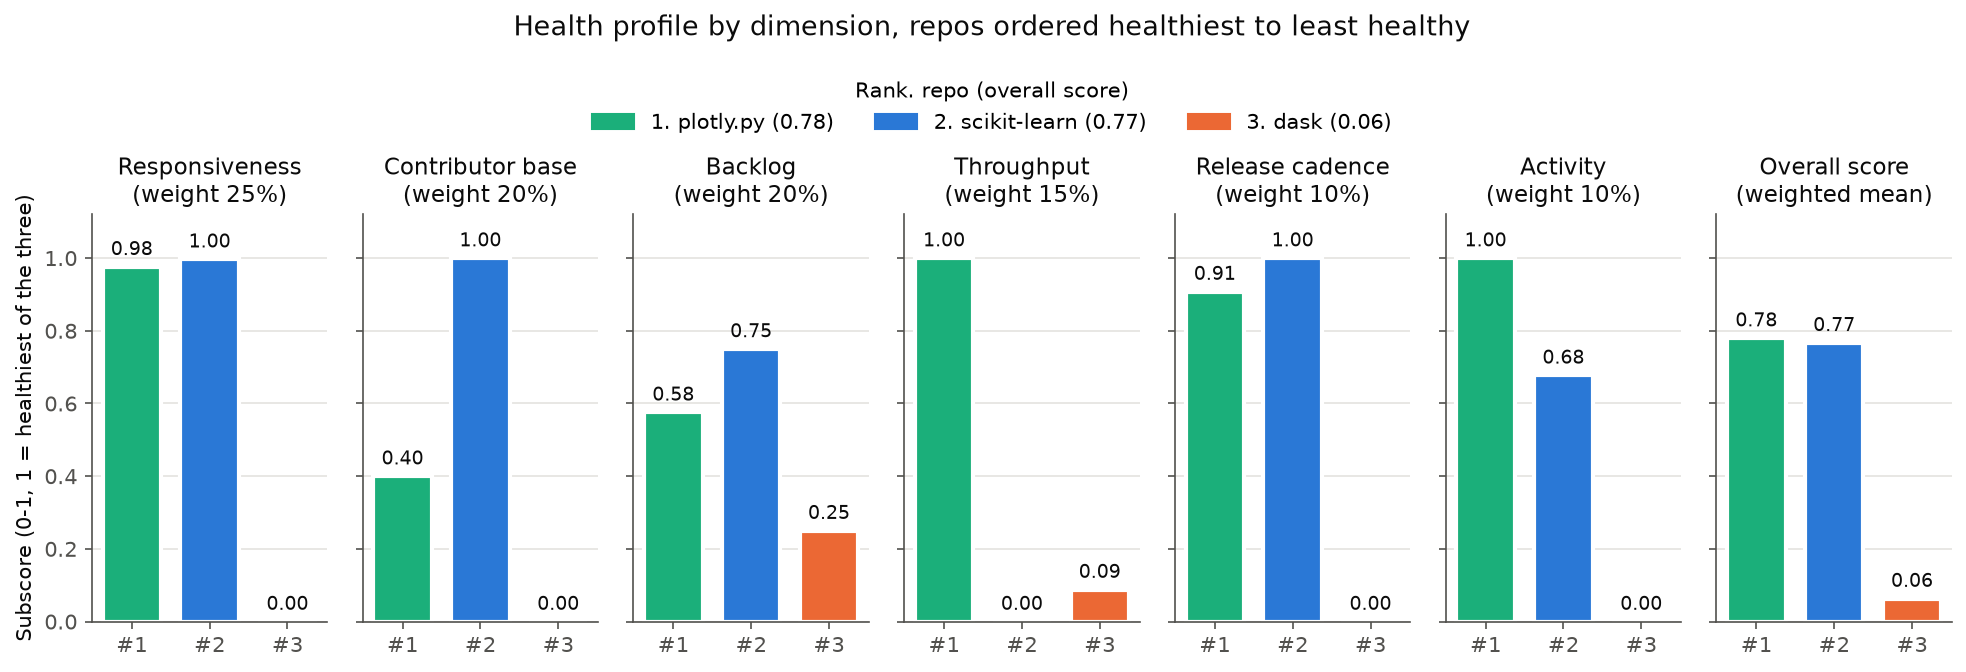
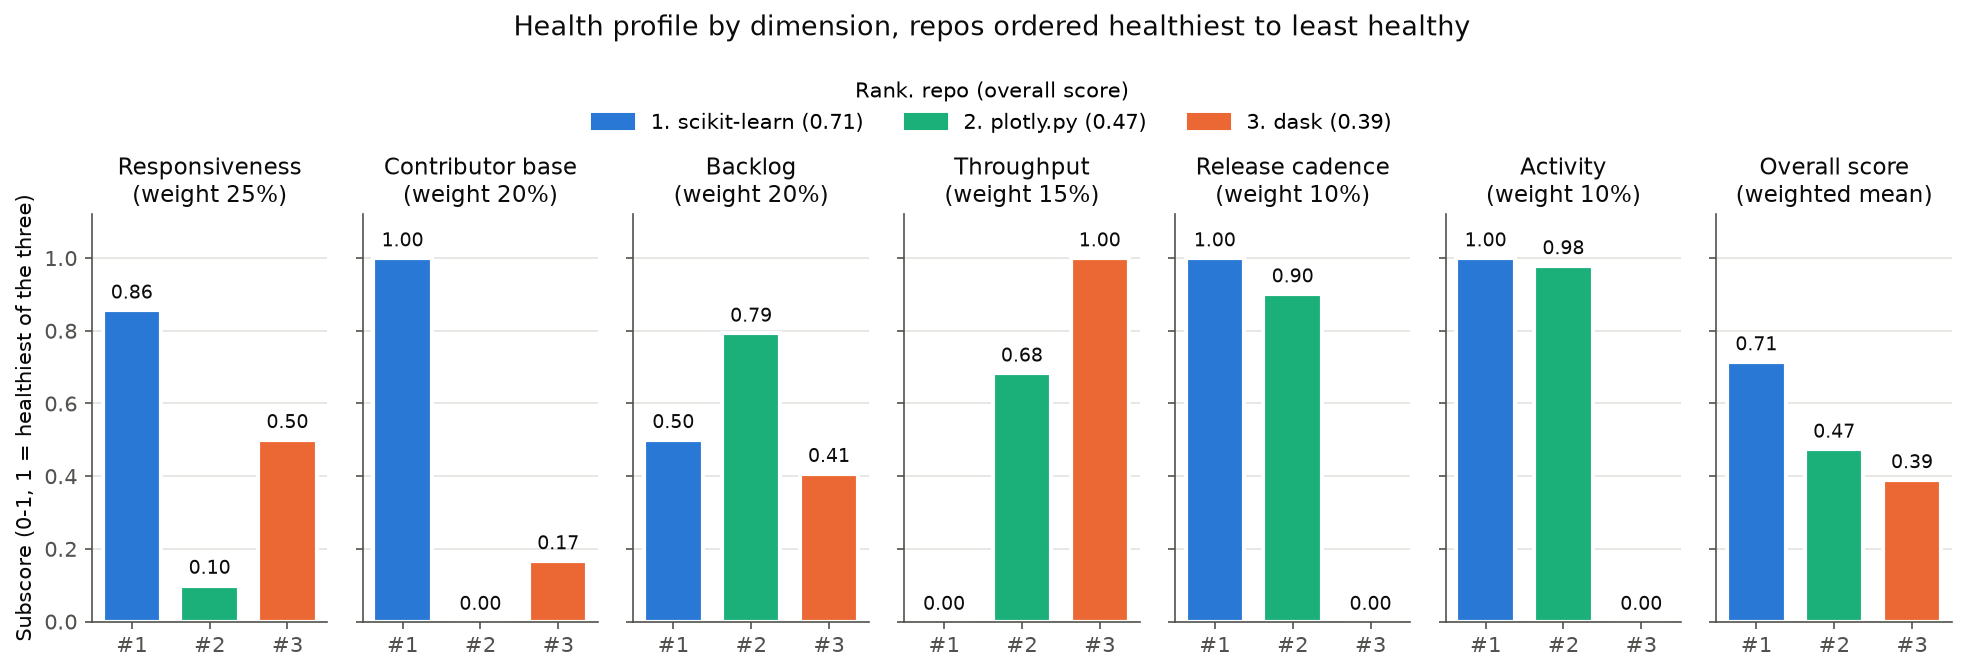
Fix plot ticks and labels for the full window; regenerate plots from 2024 data
Use quarterly ticks over long windows, and stack the whole-window labels in
marker order so their leader lines don't cross.

diff --git a/pipeline/plot.py b/pipeline/plot.py
@@ -113,7 +113,9 @@ def plot_trends(monthly: pd.DataFrame, ranked: pd.DataFrame) -> plt.Figure:
         ax.set_title(title)
         ax.set_ylabel(unit)
         ax.set_ylim(bottom=0)
-        ax.xaxis.set_major_locator(mdates.MonthLocator(interval=max(1, monthly["month"].nunique() // 8)))
+        # Quarterly ticks over a long window, monthly over a short one.
+        months = None if monthly["month"].nunique() <= 8 else (1, 4, 7, 10)
+        ax.xaxis.set_major_locator(mdates.MonthLocator(bymonth=months))
         ax.xaxis.set_major_formatter(mdates.DateFormatter("%b %Y"))
         ax.tick_params(axis="x", rotation=45)
     # Direct labels at the end of each line in the first panel.
@@ -145,6 +147,8 @@ def plot_relationship(monthly: pd.DataFrame, overall: pd.DataFrame,
 
     fig, ax = plt.subplots(figsize=(10, 6.5))
     points = monthly.dropna(subset=["median_first_review_hours", "merge_ratio"])
+    # Label slots top to bottom in the same order as the markers, so leader lines don't cross.
+    slot = {repo: i for i, repo in enumerate(overall.sort_values("merge_rate", ascending=False)["repo"])}
     for r in ranked.itertuples():
         g = points[points["repo"] == r.repo]
         ax.scatter(g["median_first_review_hours"], g["merge_ratio"],
@@ -155,14 +159,13 @@ def plot_relationship(monthly: pd.DataFrame, overall: pd.DataFrame,
             ax.scatter(o["median_hours_to_first_review"], o["merge_rate"],
                        s=size(o["active_authors_per_month"]), color=COLORS[r.repo],
                        edgecolor=INK, linewidth=2, zorder=3)
-            # Clear the marker; alternate above/below by rank so nearby labels don't collide.
-            offset = size(o["active_authors_per_month"]) ** 0.5 / 2 + 4
-            above = r.rank % 2 == 1
+            # Whole-window markers sit inside the monthly cloud, so their labels are
+            # stacked in clear space with a thin leader line to the marker.
             ax.annotate(f"{short(r.repo)} (window)",
                         (o["median_hours_to_first_review"], o["merge_rate"]),
-                        xytext=(offset, offset if above else -offset), textcoords="offset points",
-                        va="bottom" if above else "top", color=INK, fontsize=9,
-                        fontweight="bold")
+                        xytext=(0.30, 0.55 - 0.07 * slot[r.repo]), textcoords="axes fraction",
+                        va="center", color=INK, fontsize=9, fontweight="bold",
+                        arrowprops={"arrowstyle": "-", "color": MUTED, "linewidth": 0.8})
     ax.set_xlabel("Median time to first review (hours)")
     ax.set_ylabel("Merge ratio (merged / closed, 0-1)")
     ax.set_xlim(left=0)
